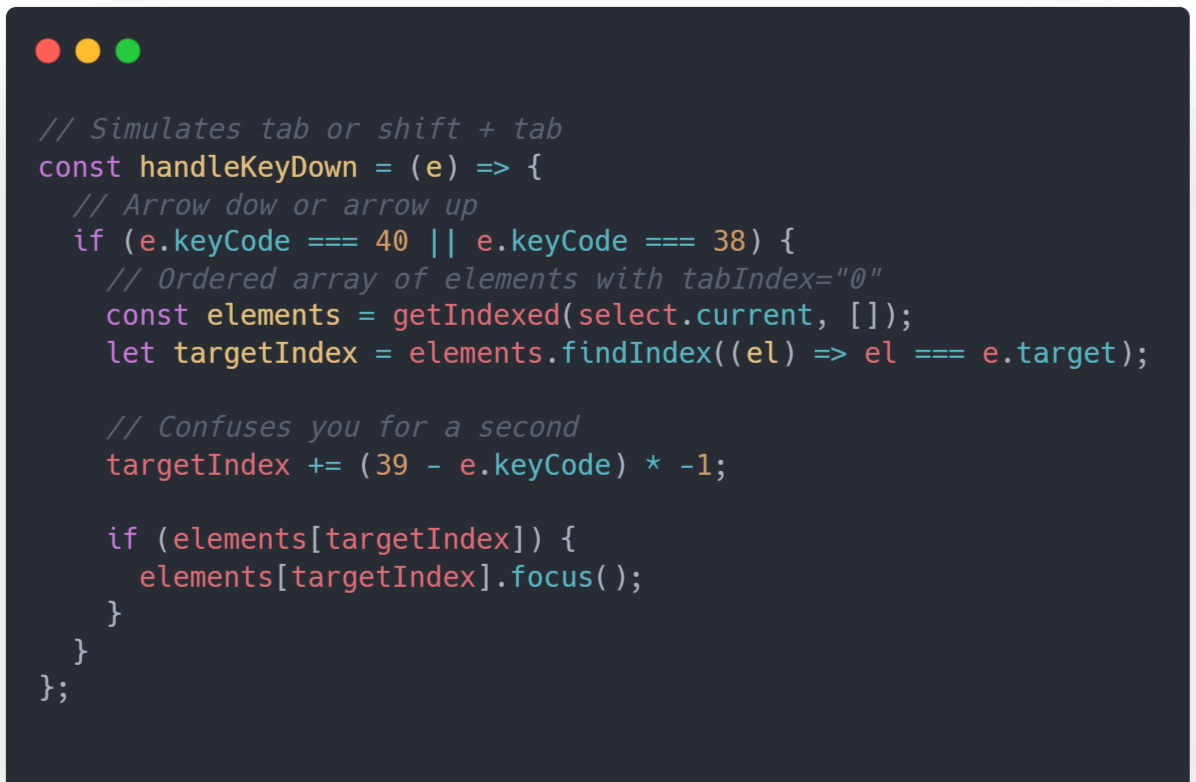
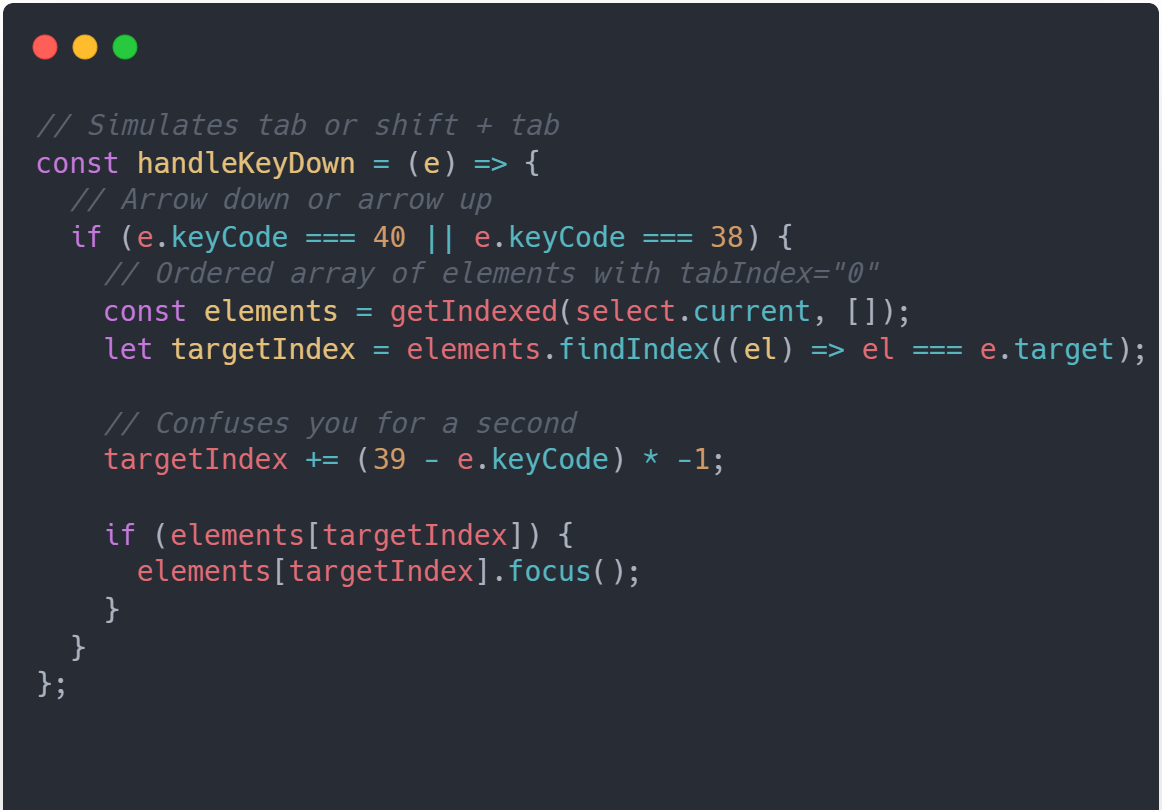
fixes carbon

Changed region(s): [[0.0, 0.0, 1.0, 1.0], [0.0929, 0.6445, 0.5577, 0.798], [0.031, 0.798, 0.0929, 0.89]]

diff --git a/app/components/Hero.js b/app/components/Hero.js
@@ -1,6 +1,23 @@
 import Image from "next/image";
 import { ArrowDownTrayIcon } from "@heroicons/react/24/outline";
 
+// // Simulates tab or shift + tab
+// const handleKeyDown = (e) => {
+//   // Arrow down or arrow up
+//   if (e.keyCode === 40 || e.keyCode === 38) {
+//     // Ordered array of elements with tabIndex="0"
+//     const elements = getIndexed(select.current, []);
+//     let targetIndex = elements.findIndex((el) => el === e.target);
+
+//     // Confuses you for a second
+//     targetIndex += (39 - e.keyCode) * -1;
+
+//     if (elements[targetIndex]) {
+//       elements[targetIndex].focus();
+//     }
+//   }
+// };
+
 const Hero = () => {
   return (
     <>
